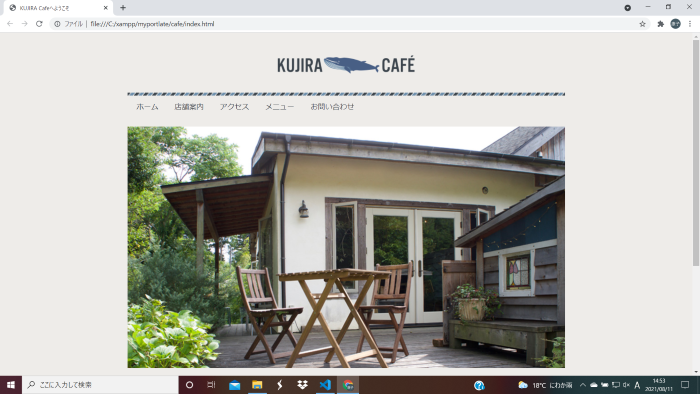
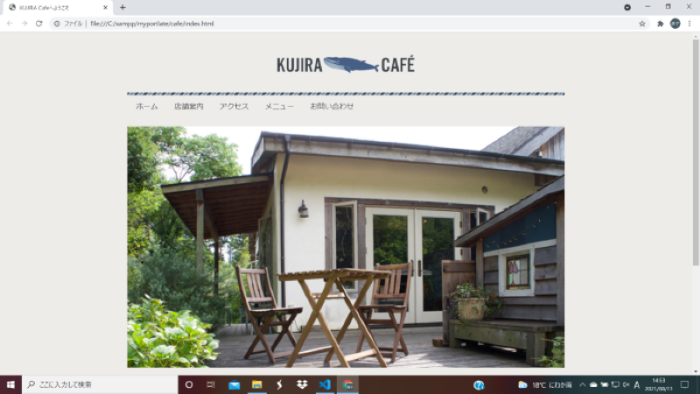
shokai2

diff --git a/index.html b/index.html
@@ -25,9 +25,9 @@
         <!-- 自己紹介 -->
         <p id="profile"></p>
         <section id="profiles" class="container">
-            <p id="my-phpto"><img src="image/jinbutu9.png" alt="顔写真"></p>
+            <p id="my-photo"><img src="image/jinbutu9.png" alt="顔写真"></p>
             <h2>自己紹介</h2>
-            <div class="profile contents">
+            <div class="profile-contents">
                 <h3>氏名:　舘林　康子</h3>
                 <h3>使用言語:HTML&CSS/PHP/JavaScript</h3>
                 <p>現在、事務の仕事と並行しながら、上記のプログラミングの仕事を実施しています。<br>
@@ -40,22 +40,24 @@
         <p id="work"></p>
         <section id="works" class="container">
             <h2>仕事内容紹介</h2>
-            <div class="work-contents">
-                <img src="image/gazou12.png" alt="デザイン">
-                <h3>HTML&CSSコーディング</h3>
-                    <p>提出されたプログラミング内容を基に、週末7~8時間以内でできる内容にて制作します。</p>
-            </div>
-            <div class="work-contents">
-                <img src="image/gazou11.png" alt="ランディングページ">
-                <h3>ランディングページ</h3>
-                    <p>簡潔な内容であれば、最速で3~4時間、<br>
-                    平均で7~8時間にて制作します。</p>
-            </div>
-            <div class="work-contents">
-                <img src="image/gazou10.png" alt="ホームページ">
-                <h3>HTML&CSSのみのホームページ制作</h3>
-                <p>5ページ以内のホームページであれば、デザインも含め制作します。<br>
-                2週間程度で制作します。多少お時間がかかる旨ご留意願います。</p>
+            <div class="works-grid">
+                <div class="work-contents">
+                    <img src="image/gazou12.png" alt="デザイン">
+                    <h3>HTML&CSSコーディング</h3>
+                        <p>提出されたプログラミング内容を基に、<br>週末7~8時間以内でできる内容にて制作します。</p>
+                </div>
+                <div class="work-contents">
+                    <img src="image/gazou11.png" alt="ランディングページ">
+                    <h3>ランディングページ</h3>
+                        <p>簡潔な内容であれば、最速で3~4時間、<br>
+                        平均で7~8時間にて制作します。</p>
+                </div>
+                <div class="work-contents">
+                    <img src="image/gazou10.png" alt="ホームページ">
+                    <h3>HTML&CSSのみのホームページ制作</h3>
+                    <p>5ページ以内のホームページであれば、デザインも含め制作します。<br>
+                    2週間程度で制作します。多少お時間がかかる旨ご留意願います。</p>
+                </div>
             </div>
         </section>
         <p id="address"></p>

diff --git a/css/style.css b/css/style.css
@@ -28,7 +28,7 @@ a img {
 }
 
 h2 {
-    font-size: 1.5rem;
+    font-size: 2.0rem;
     margin: 0 0 1rem;
 }
 
@@ -44,17 +44,13 @@ p {
 }
 
 img {
-    width: 50%;
+    width: 70%;
     border: none;
 }
 
 .container {
     padding: 1rem 2rem;
     max-width: 100%;
-}
-
-header {
-    height:520px;
 }
 
 section {
@@ -87,4 +83,90 @@ header {
     background-size: cover;
     background-position: center center;
     height: 520px;
+}
+
+#my-photo {
+    width: 60%;
+    text-align: center;
+    margin-left: 50px;
+}
+
+#my-icon {
+    width: 10%;
+}
+
+#profiles[class="container"] {
+    margin-left: 100px;
+}
+
+#works[class="container"] {
+    margin-left: 100px;
+}
+
+#address-contents[class="container"] {
+    margin-left: 100px;
+}
+
+/* タブレット、PC向け */
+@media(min-width:768px) {
+    .site-header {
+        display: flex;
+        justify-content: space-between;
+        max-width: 90%;
+        margin: 0 auto;
+    }
+
+    .site-header-section {
+        display: flex;
+        align-items: center;
+    }
+
+    .site-header-section li {
+        margin: 0 0 0 1rem;
+    }
+
+    #my-photo {
+        margin-left: 100px;
+    }
+
+    #profiles[class="container"] {
+        max-width: 50%;
+        margin:2rem auto;
+    }
+    
+    #profiles h2 {
+        text-align: center;
+    }
+
+    #works[class="container"] {
+        max-width: 90%;
+        margin: 2rem auto;
+    }
+
+    #works h2 {
+        text-align: center;
+    }
+
+    .works-grid {
+        display: grid;
+        grid-template-rows: 1fr;
+        grid-template-columns: 1fr 1fr 1fr;
+        grid-column-gap: 1rem;
+    }
+
+    #address-contents[class="container"] {
+        max-width: 50%;
+        margin:2rem auto;
+    }
+    #address-contents h2 {
+        text-align: center;
+    }
+
+    #address-contents p {
+        text-align: center;
+    }
+
+    #my-icon {
+        margin-left: 320px;
+    }
 }
